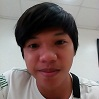
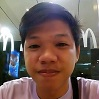
Updated Pictures

diff --git a/index.html b/index.html
@@ -43,7 +43,7 @@
     </nav>
     <div class="parallax-container" style="margin:0%">
         <div class="parallax">
-            <img src="img/programmer1.jpg">
+            <img src="img/programmer1.jpg" style="zoom: 105%">
         </div>
     </div>
     <img src="img/pic.jpg" class="img-thumbnail center-block">
@@ -133,6 +133,7 @@
     <script type="text/javascript">
         $(document).ready(function(){
             $('.parallax').parallax();
+            // $('.parallax-window').parallax({imageSrc: 'img/programmer1.jpg'});
         
             
         });
